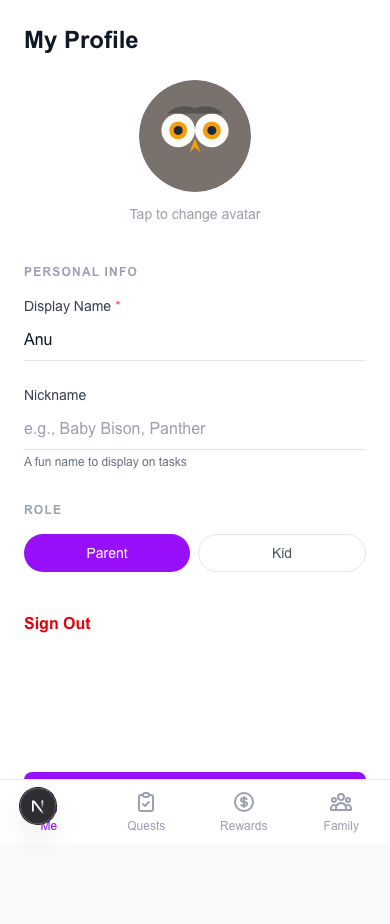
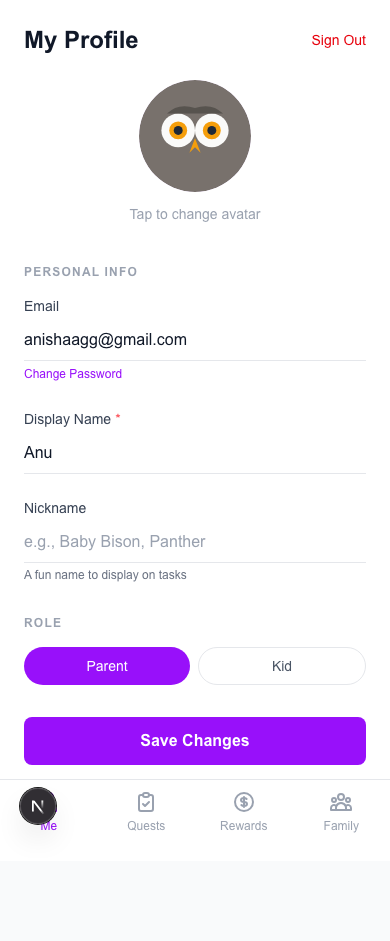
Profile page UI improvements: email, change password, layout
- Show user email as read-only field in Personal Info section
- Add Change Password modal with validation (min 6 chars, confirm match)
- Move Sign Out to top-right header
- Move Save Changes inline below role toggle (remove sticky footer)
- Add unit tests for email, password modal, sign out placement
- Add E2E tests for email display, password modal, header sign out

Closes #53

diff --git a/app/(dashboard)/me/page.tsx b/app/(dashboard)/me/page.tsx
@@ -13,6 +13,7 @@ import { AVATAR_OPTIONS, type Profile } from '@/lib/types'
 
 export default function MePage() {
   const [profile, setProfile] = useState<Profile | null>(null)
+  const [email, setEmail] = useState('')
   const [displayName, setDisplayName] = useState('')
   const [nickname, setNickname] = useState('')
   const [role, setRole] = useState<Role>('child')
@@ -21,6 +22,12 @@ export default function MePage() {
   const [saving, setSaving] = useState(false)
   const [saveSuccess, setSaveSuccess] = useState(false)
   const [isAvatarOpen, setIsAvatarOpen] = useState(false)
+  const [isPasswordOpen, setIsPasswordOpen] = useState(false)
+  const [newPassword, setNewPassword] = useState('')
+  const [confirmPassword, setConfirmPassword] = useState('')
+  const [passwordError, setPasswordError] = useState<string | null>(null)
+  const [passwordSaving, setPasswordSaving] = useState(false)
+  const [passwordSuccess, setPasswordSuccess] = useState(false)
   const router = useRouter()
   const supabase = createClient()
 
@@ -39,6 +46,7 @@ export default function MePage() {
 
     if (data) {
       setProfile(data)
+      setEmail(user.email || '')
       setDisplayName(data.display_name)
       setNickname(data.nickname || '')
       setRole(data.role)
@@ -104,6 +112,41 @@ export default function MePage() {
     setIsAvatarOpen(false)
   }
 
+  function handleOpenPasswordModal() {
+    setNewPassword('')
+    setConfirmPassword('')
+    setPasswordError(null)
+    setPasswordSuccess(false)
+    setIsPasswordOpen(true)
+  }
+
+  async function handleChangePassword() {
+    setPasswordError(null)
+
+    if (newPassword.length < 6) {
+      setPasswordError('Password must be at least 6 characters.')
+      return
+    }
+    if (newPassword !== confirmPassword) {
+      setPasswordError('Passwords do not match.')
+      return
+    }
+
+    setPasswordSaving(true)
+    const { error } = await supabase.auth.updateUser({ password: newPassword })
+    setPasswordSaving(false)
+
+    if (error) {
+      setPasswordError(error.message)
+      return
+    }
+
+    setPasswordSuccess(true)
+    setNewPassword('')
+    setConfirmPassword('')
+    setTimeout(() => setIsPasswordOpen(false), 1500)
+  }
+
   async function handleSignOut() {
     await supabase.auth.signOut()
     router.push('/login')
@@ -129,11 +172,17 @@ export default function MePage() {
   return (
     <div className="min-h-screen flex flex-col bg-white">
       {/* Page title */}
-      <header className="px-6 pt-6 pb-2">
+      <header className="px-6 pt-6 pb-2 flex items-center justify-between">
         <h1 className="text-2xl font-bold text-gray-900">My Profile</h1>
+        <button
+          onClick={handleSignOut}
+          className="text-sm text-red-600 hover:text-red-700 font-medium"
+        >
+          Sign Out
+        </button>
       </header>
 
-      <main className="flex-1 px-6 pt-4 pb-32">
+      <main className="flex-1 px-6 pt-4 pb-24">
         <div className="max-w-md mx-auto">
           {/* Avatar Section */}
           <section className="flex flex-col items-center mb-10">
@@ -175,6 +224,20 @@ export default function MePage() {
                 Personal Info
               </h2>
               <div className="space-y-6">
+                <div>
+                  <UnderlineInput
+                    label="Email"
+                    value={email}
+                    readOnly
+                  />
+                  <button
+                    type="button"
+                    onClick={handleOpenPasswordModal}
+                    className="text-xs text-purple-600 hover:text-purple-700 font-medium mt-1"
+                  >
+                    Change Password
+                  </button>
+                </div>
                 <UnderlineInput
                   label="Display Name"
                   value={displayName}
@@ -208,35 +271,18 @@ export default function MePage() {
               )}
             </section>
 
-            {/* Sign Out */}
-            <section className="mt-8">
-              <Button
-                type="button"
-                variant="ghost"
-                onClick={handleSignOut}
-                className="w-full text-red-600 hover:text-red-700 hover:bg-red-50 justify-start px-0"
-              >
-                Sign Out
-              </Button>
-            </section>
+            {/* Save Changes */}
+            <Button
+              type="submit"
+              loading={saving}
+              success={saveSuccess}
+              className="w-full h-12"
+            >
+              Save Changes
+            </Button>
           </form>
         </div>
       </main>
-
-      {/* Save button footer */}
-      <footer className="px-6 pb-6">
-        <div className="max-w-md mx-auto">
-          <Button
-            type="button"
-            onClick={handleSave}
-            loading={saving}
-            success={saveSuccess}
-            className="w-full h-12"
-          >
-            Save Changes
-          </Button>
-        </div>
-      </footer>
 
       {/* Avatar Selection Modal */}
       <Modal
@@ -263,6 +309,73 @@ export default function MePage() {
               <span className="text-xs text-gray-600 mt-1 block">{avatar.name}</span>
             </button>
           ))}
+        </div>
+      </Modal>
+      {/* Change Password Modal */}
+      <Modal
+        isOpen={isPasswordOpen}
+        onClose={() => setIsPasswordOpen(false)}
+        title="Change Password"
+      >
+        <div className="space-y-4">
+          {passwordSuccess ? (
+            <p className="text-green-600 font-medium text-center py-4">
+              Password updated successfully!
+            </p>
+          ) : (
+            <>
+              {passwordError && (
+                <div className="bg-red-50 text-red-600 p-3 rounded-lg text-sm">
+                  {passwordError}
+                </div>
+              )}
+              <div>
+                <label htmlFor="new-password" className="block text-sm font-medium text-gray-700 mb-1">
+                  New Password
+                </label>
+                <input
+                  id="new-password"
+                  type="password"
+                  value={newPassword}
+                  onChange={(e) => setNewPassword(e.target.value)}
+                  className="w-full px-3 py-2 border border-gray-300 rounded-lg focus:ring-2 focus:ring-purple-500 focus:border-transparent outline-none text-gray-900"
+                  placeholder="At least 6 characters"
+                />
+              </div>
+              <div>
+                <label htmlFor="confirm-password" className="block text-sm font-medium text-gray-700 mb-1">
+                  Confirm Password
+                </label>
+                <input
+                  id="confirm-password"
+                  type="password"
+                  value={confirmPassword}
+                  onChange={(e) => setConfirmPassword(e.target.value)}
+                  className="w-full px-3 py-2 border border-gray-300 rounded-lg focus:ring-2 focus:ring-purple-500 focus:border-transparent outline-none text-gray-900"
+                  placeholder="Re-enter new password"
+                />
+              </div>
+              <div className="flex gap-3 pt-2">
+                <Button
+                  type="button"
+                  variant="secondary"
+                  onClick={() => setIsPasswordOpen(false)}
+                  className="flex-1"
+                >
+                  Cancel
+                </Button>
+                <Button
+                  type="button"
+                  onClick={handleChangePassword}
+                  loading={passwordSaving}
+                  disabled={!newPassword || !confirmPassword}
+                  className="flex-1"
+                >
+                  Update Password
+                </Button>
+              </div>
+            </>
+          )}
         </div>
       </Modal>
     </div>

diff --git a/__tests__/app/dashboard/me.test.tsx b/__tests__/app/dashboard/me.test.tsx
@@ -20,6 +20,7 @@ jest.mock('next/image', () => ({
 // Mock Supabase client
 const mockGetUser = jest.fn()
 const mockSignOut = jest.fn()
+const mockUpdateUser = jest.fn().mockResolvedValue({ error: null })
 const mockSupabaseData = {
   profile: null as unknown,
   parentCount: 2,
@@ -33,6 +34,9 @@ jest.mock('@/lib/supabase/client', () => ({
       },
       get signOut() {
         return mockSignOut
+      },
+      get updateUser() {
+        return mockUpdateUser
       },
     },
     from: () => ({
@@ -74,7 +78,7 @@ describe('Me Page', () => {
   beforeEach(() => {
     jest.clearAllMocks()
     mockGetUser.mockResolvedValue({
-      data: { user: { id: 'user-123' } },
+      data: { user: { id: 'user-123', email: 'test@example.com' } },
     })
     mockSupabaseData.profile = mockProfile
     mockSupabaseData.parentCount = 2
@@ -229,6 +233,54 @@ describe('Me Page', () => {
     })
 
     expect(screen.getByRole('button', { name: 'Sign Out' })).toBeInTheDocument()
+  })
+
+  it('displays email address as read-only', async () => {
+    render(<MePage />)
+
+    await waitFor(() => {
+      expect(screen.getByText('My Profile')).toBeInTheDocument()
+    })
+
+    expect(screen.getByText('Email')).toBeInTheDocument()
+    const emailInput = screen.getByDisplayValue('test@example.com')
+    expect(emailInput).toHaveAttribute('readOnly')
+  })
+
+  it('renders Change Password button', async () => {
+    render(<MePage />)
+
+    await waitFor(() => {
+      expect(screen.getByText('My Profile')).toBeInTheDocument()
+    })
+
+    expect(screen.getByRole('button', { name: 'Change Password' })).toBeInTheDocument()
+  })
+
+  it('opens change password modal', async () => {
+    const user = userEvent.setup()
+    render(<MePage />)
+
+    await waitFor(() => {
+      expect(screen.getByText('My Profile')).toBeInTheDocument()
+    })
+
+    await user.click(screen.getByRole('button', { name: 'Change Password' }))
+
+    expect(screen.getByText('New Password')).toBeInTheDocument()
+    expect(screen.getByText('Confirm Password')).toBeInTheDocument()
+    expect(screen.getByRole('button', { name: 'Update Password' })).toBeInTheDocument()
+  })
+
+  it('sign out button is in the header', async () => {
+    render(<MePage />)
+
+    await waitFor(() => {
+      expect(screen.getByText('My Profile')).toBeInTheDocument()
+    })
+
+    const header = screen.getByText('My Profile').closest('header')
+    expect(header).toContainElement(screen.getByRole('button', { name: 'Sign Out' }))
   })
 
   it('displays "Tap to change avatar" caption under avatar', async () => {

diff --git a/e2e/me.spec.ts b/e2e/me.spec.ts
@@ -87,6 +87,25 @@ test.describe('Me Page', () => {
     await expect(underline).toHaveClass(/bg-purple-600/)
   })
 
+  test('displays email address', async ({ page }) => {
+    await expect(page.getByText('Email')).toBeVisible()
+    const emailInput = page.locator('input[id="email"]')
+    await expect(emailInput).toBeVisible()
+    await expect(emailInput).toHaveAttribute('readOnly', '')
+  })
+
+  test('change password link opens modal', async ({ page }) => {
+    await page.getByRole('button', { name: 'Change Password' }).click()
+    await expect(page.getByText('New Password')).toBeVisible()
+    await expect(page.getByText('Confirm Password')).toBeVisible()
+    await expect(page.getByRole('button', { name: 'Update Password' })).toBeVisible()
+  })
+
+  test('sign out button is in header', async ({ page }) => {
+    const header = page.locator('header')
+    await expect(header.getByRole('button', { name: 'Sign Out' })).toBeVisible()
+  })
+
   test('page has mobile-first max-width container', async ({ page }) => {
     const container = page.locator('main .max-w-md')
     await expect(container).toBeVisible()
